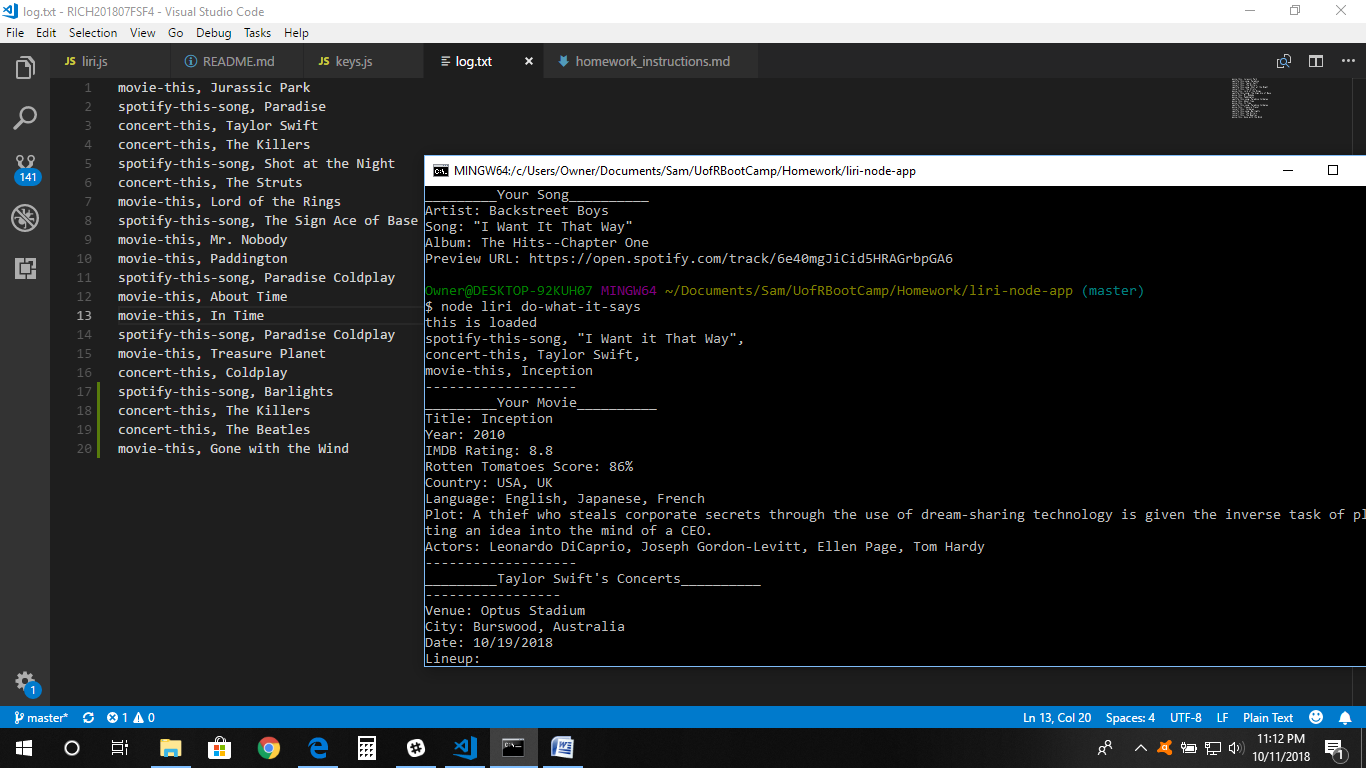
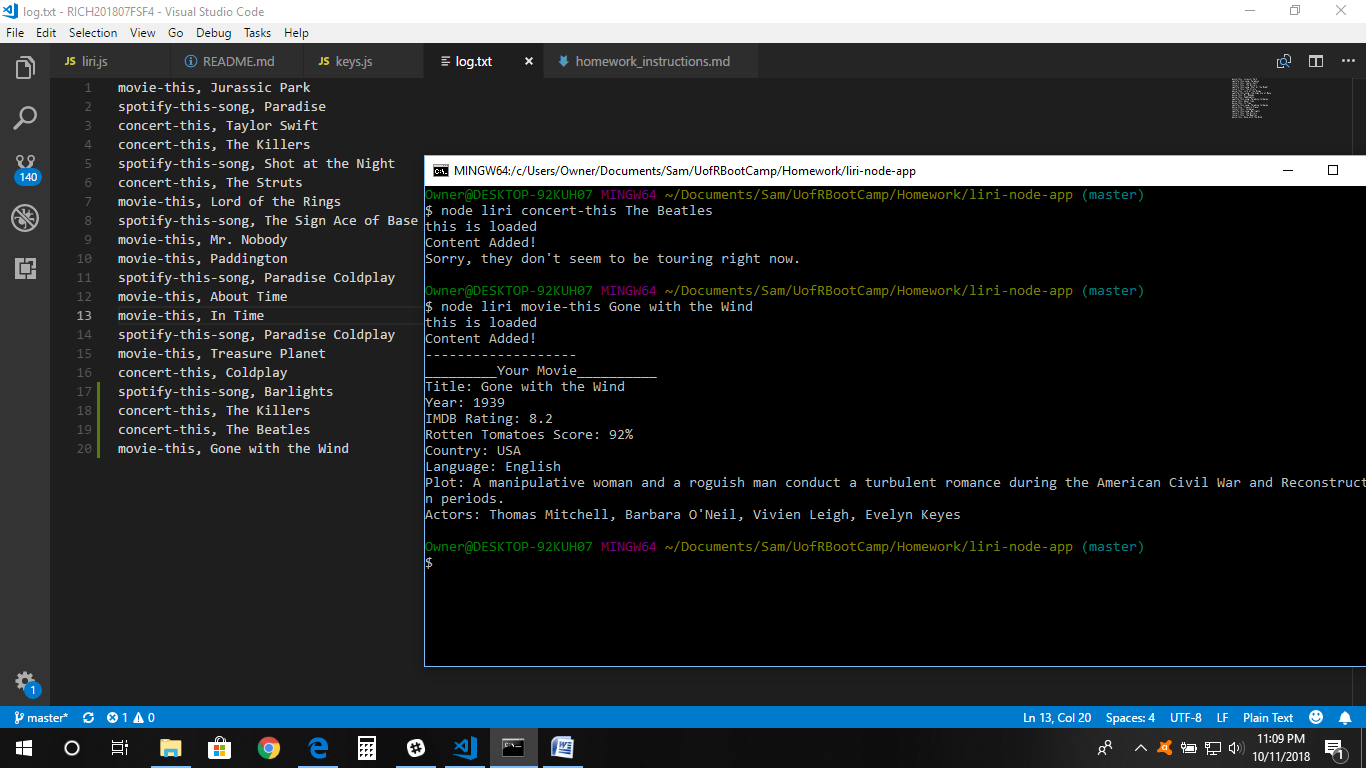
updated README

diff --git a/README.md b/README.md
@@ -6,13 +6,37 @@ This LIRI app (Language Interpretation and Recognition Interface) can access thr
 
 ## Spotify
 
-After typing in "node liri", the next word determines which API is called. Typing "spotify-this-song" accesses the Spotify API, utilizing the node-spotify-api NPM package and enabled by a client ID and client secret from Spotify, both of which are stored in a separate .env file and accessed through the keys.js file.
+After typing in "node liri", the next word determines which API is called. Typing "spotify-this-song" accesses the Spotify API, utilizing the node-spotify-api NPM package and enabled by a client ID and client secret from Spotify, both of which are stored in a separate .env file and accessed through the keys.js file. Whatever follows "spotify-this-song" is the song title searched by the Spotify API (with or without quotation marks). If nothing is typed after "spotify-this-song", the default song becomes "The Sign Ace of Base" since typing the artist with the title further clarifies what song is desired.
 
 As seen in the example screenshot below, typing "node liri spotify-this-song Barlights" prints to the console the artist, song name, its album, and a preview link to listen to the song on Spotify (as long as you're signed in). The "Content Added!" line is triggered by the fs.appendFile function, confirming that it has automatically added "spotify-this-song Barlights" to log.txt, as seen in the left side of the screenshot.
 
 ![First Log Screenshot](/images/firstLog.png)
 
 
+## Bandsintown
+
+Typing "concert-this" after "node liri" in the command line accessed the Bandsintown API, inserting whatever words are typed afterward (with or without quotation marks) as the artist in the URL of the Bandsintown http call. If no error is returned, the artist's name is inserted into a title for the returned results and the venue, city, date (formatted with moment.js), and lineup of each concert are listed below. The city line also includes the state (region) and country, but only if the region is not a number, which seems to be the case in some other countries, like Japan, in which case only the city and country are listed. If the artist is alone, they are on the same line as the "Lineup:" label, but if they are one of several acts, they are all listed below "Lineup:". As seen below, the "Content Added!" line confirms that the search parameters in the initial command line call have been appended to log.txt.
+
+![Second Log Screenshot](/images/secondLog.png)
+
+There is no default if the user does not type anything after "concert-this" so nothing happens in that case. If the API call returns a null error and an empty array, it means the artist is not currently touring and has no concert dates to list, which logs a message to that effect.
+
+![Third Log Screenshot](/images/thirdLog.png)
+
 ## OMDB
 
-Typing "movie-this" accesses the OMDB API, inserting whatever words are typed afterward into the URL of an http call.
+Typing "movie-this" accesses the OMDB API, inserting whatever words are typed afterward (with or without quotation marks) into the URL of the OMDB http call. If nothing is typed after "movie-this", the default movie searched becomes "Mr. Nobody", as seen below.
+
+![Fourth Log Screenshot](/images/fourthLog.png)
+
+Using the OMDB data, the console displays the movie's title, year, IMDB rating, Rotten Tomatoes rating (if applicable since OMDB also lists television; if there is no Rotten Tomatoes score, it shows "N/A"), country, language, plot summary, and a list of actors. Again, the "Content Added!" line confirms the search terms' insertion into log.txt, as shown below.
+
+![Fifth Log Screenshot](/images/fifthLog.png)
+
+## Do-What-It-Says
+
+Typing "do-what-it-says" accesses the text in the separate random.txt file, using the fs.readFile function. The contents of that file are the first thing logged to the console in the screenshot below. They are broken into an array, separated at the commas and line breaks, and a for loop replaces the third and fourth values of process.argv in order to trigger the functions for the three API calls discussed above. This causes the appropriate API calls to fire one after the other, though not necessarily in order. The screenshot shows how the OMDB data is listed first, followed by Bandsintown and Spotify last.
+
+To avoid confusion on new calls versus reading random.txt, the do-what-it-says option does not append anything to log.txt.
+
+![Sixth Log Screenshot](/images/sixthLog.png)
